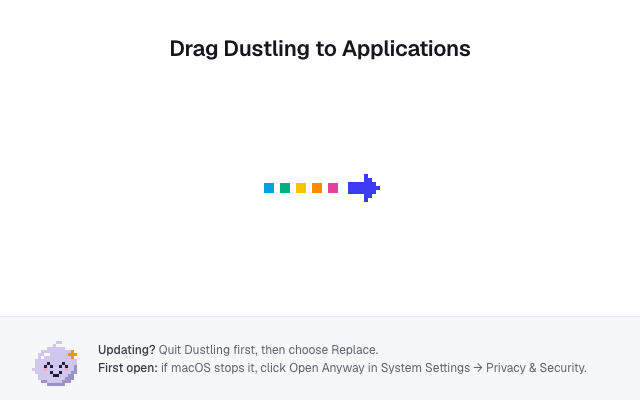
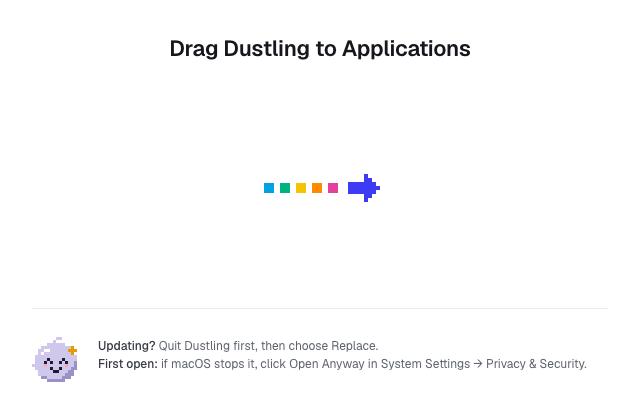
fix(dmg): window tall enough for the title bar; picture ends in white
Finder counts the title bar in the window height, so a 400 pt window cut
off the bottom hints. The window is now 432 pt and the hints sit on white
above a thin rule, so the few points left below the picture don't show.

Changed region(s): [[0.1562, 0.84, 0.9375, 0.93], [0.0625, 0.84, 0.125, 0.99]]

diff --git a/App/DMG/background.html b/App/DMG/background.html
@@ -6,6 +6,10 @@
   Finder always draws a window with a background picture in light mode (dark label text), so this
   stays light whatever the Mac's appearance is.
 
+  The window is a little taller than this picture, because its title bar (about 28 to 32 points,
+  depending on the macOS version) counts toward the window's height. Whatever is left below the
+  picture is white, so the bottom of the picture must be white too: no colored band at the bottom.
+
   The icon centers come from App/DMG/dmg-settings.py: Dustling at (180, 188), Applications at
   (460, 188), 128 pt icons. Keep the trail between them if you move them.
 -->
@@ -21,7 +25,6 @@
   /* Mosaic light tokens (DESIGN-mosaic.md). */
   :root {
     --ground: #ffffff;
-    --panel: #f6f7f9;
     --ink: #15171c;
     --ink2: #363a44;
     --muted: #5d626d;
@@ -69,16 +72,14 @@
 
   .foot {
     position: absolute;
-    left: 0;
-    right: 0;
+    left: 32px;
+    right: 32px;
     bottom: 0;
-    height: 84px;
-    background: var(--panel);
+    height: 92px;
     border-top: 1px solid var(--line);
     display: flex;
     align-items: center;
     gap: 18px;
-    padding: 0 32px;
     box-sizing: border-box;
   }
   .foot p { margin: 0; font-size: 12px; line-height: 1.5; color: var(--muted); }

diff --git a/App/DMG/dmg-settings.py b/App/DMG/dmg-settings.py
@@ -25,7 +25,9 @@ icon = defines["icon"]  # noqa: F821
 
 # Window
 background = defines["background"]  # noqa: F821
-window_rect = ((200, 120), (640, 400))
+# Finder counts the title bar in the window's height (28 to 32 pt depending on macOS), so the window
+# is 32 pt taller than the 400 pt picture. The picture ends in white, which hides the difference.
+window_rect = ((200, 120), (640, 432))
 default_view = "icon-view"
 show_status_bar = False
 show_tab_view = False
